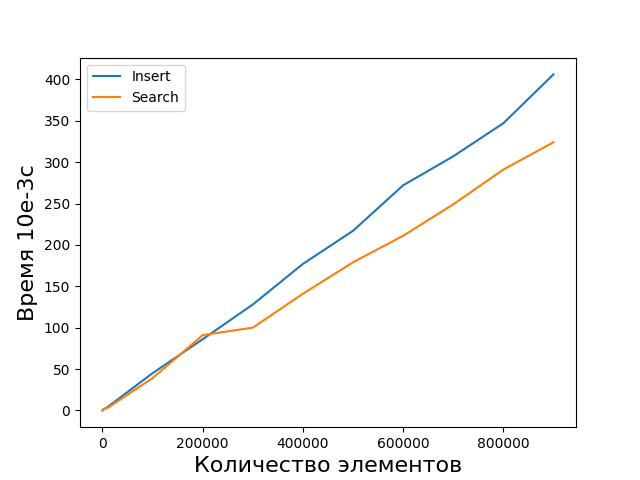
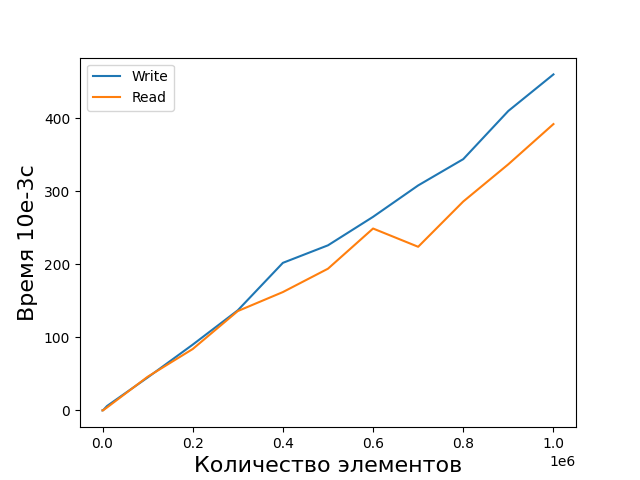
[SkipList] Benchmark chars + description

diff --git a/PrimaEst/Benchmarks/SkipList/SkipListSelection.c b/PrimaEst/Benchmarks/SkipList/SkipListSelection.c
@@ -25,7 +25,8 @@ static int nSelectionCount[] =
 	600000,
 	700000,
 	800000,
-	900000
+	900000,
+	1000000
 };
 
 static
@@ -368,7 +369,7 @@ LockFreeSkipListSelection()
 
 
 #define SKIP_LIST_BENCHMARK_THREAD_COUNT	63
-#define SKIP_LIST_BENCHMARK_BOUND			10e5
+#define SKIP_LIST_BENCHMARK_BOUND			2 * 10e5
 
 typedef struct _SBenchmarkSkipListArg
 {
@@ -385,10 +386,10 @@ typedef struct _SBenchmarkSkipListArg
 	DWORD				dwThreadsCount;
 
 	/** Начало диапозона */
-	DWORD				dwFrom;
+	LONG64				dwFrom;
 
 	/** Конец диапозона */
-	DWORD				dwTo;
+	LONG64				dwTo;
 } SBenchmarkSkipListArg, *PSBenchmarkSkipListArg;
 
 
@@ -417,7 +418,7 @@ SetLockFreeSkipListRoutine(
 	LONG lTime = 0;
 	LONG lTotal = 0;
 
-	for (DWORD i = arg->dwFrom; i < arg->dwTo; i++)
+	for (LONG64 i = arg->dwFrom; i < arg->dwTo; i++)
 	{
 		lTime = clock();
 
@@ -444,7 +445,7 @@ FindLockFreeSkipListRoutine(
 	LONG lTime = 0;
 	LONG lTotal = 0;
 
-	for (DWORD i = arg->dwFrom; i < arg->dwTo; i++)
+	for (LONG64 i = arg->dwFrom; i < arg->dwTo; i++)
 	{
 		lTime = clock();
 
@@ -471,7 +472,7 @@ FindSkipListRoutine(
 	LONG lTime = 0;
 	LONG lTotal = 0;
 
-	for (DWORD i = arg->dwFrom; i < arg->dwTo; i++)
+	for (LONG64 i = arg->dwFrom; i < arg->dwTo; i++)
 	{
 		lTime = clock();
 
@@ -500,7 +501,7 @@ SetSkipListRoutine(
 	LONG lTime = 0;
 	LONG lTotal = 0;
 
-	for (DWORD i = arg->dwFrom; i < arg->dwTo; i++)
+	for (LONG64 i = arg->dwFrom; i < arg->dwTo; i++)
 	{
 		lTime = clock();
 
@@ -537,21 +538,21 @@ InternalMultiThreadSetSelection()
 
 	InitializeCriticalSection(&crWriteLock);
 
-	for (DWORD i = 1; i <= SKIP_LIST_BENCHMARK_THREAD_COUNT; i++)
+	for (LONG64 i = 1; i <= SKIP_LIST_BENCHMARK_THREAD_COUNT; i++)
 	{
 		PSSkipList psSkipList = CreateSkipList(
 			TestIntComparator,
 			TestIntEraser,
 			TestIntChanger);
 
-		for (DWORD j = 0; j < i; j++)
+		for (LONG64 j = 0; j < i; j++)
 		{
 			sArgs[j].crWriteLock = &crWriteLock;
 			sArgs[j].dwThreadsCount = i;
 			sArgs[j].nTime = 0;
 			sArgs[j].psSkipList = psSkipList;
-			sArgs[j].dwFrom = (DWORD)(SKIP_LIST_BENCHMARK_BOUND / i) * j;
-			sArgs[j].dwTo = (DWORD)(SKIP_LIST_BENCHMARK_BOUND / i) * (j + 1);
+			sArgs[j].dwFrom = (LONG64)(SKIP_LIST_BENCHMARK_BOUND / i) * j;
+			sArgs[j].dwTo = (LONG64)(SKIP_LIST_BENCHMARK_BOUND / i) * (j + 1);
 
 			hThreads[j] = CreateThread(
 				NULL, 0, SetSkipListRoutine,
@@ -613,16 +614,16 @@ InternalMultiThreadFindSelection()
 
 	InitializeCriticalSection(&crWriteLock);
 
-	for (DWORD i = 1; i <= SKIP_LIST_BENCHMARK_THREAD_COUNT; i++)
+	for (LONG64 i = 1; i <= SKIP_LIST_BENCHMARK_THREAD_COUNT; i++)
 	{
-		for (DWORD j = 0; j < i; j++)
+		for (LONG64 j = 0; j < i; j++)
 		{
 			sArgs[j].crWriteLock = &crWriteLock;
 			sArgs[j].dwThreadsCount = i;
 			sArgs[j].nTime = 0;
 			sArgs[j].psSkipList = psSkipList;
-			sArgs[j].dwFrom = (DWORD)(SKIP_LIST_BENCHMARK_BOUND / i) * j;
-			sArgs[j].dwTo = (DWORD)(SKIP_LIST_BENCHMARK_BOUND / i) * (j + 1);
+			sArgs[j].dwFrom = (LONG64)(SKIP_LIST_BENCHMARK_BOUND / i) * j;
+			sArgs[j].dwTo = (LONG64)(SKIP_LIST_BENCHMARK_BOUND / i) * (j + 1);
 
 			hThreads[j] = CreateThread(
 				NULL, 0, FindSkipListRoutine,
@@ -679,21 +680,21 @@ InternalMultiThreadLockFreeSetSelection()
 
 	InitializeCriticalSection(&crWriteLock);
 
-	for (DWORD i = 1; i <= SKIP_LIST_BENCHMARK_THREAD_COUNT; i++)
+	for (LONG64 i = 1; i <= SKIP_LIST_BENCHMARK_THREAD_COUNT; i++)
 	{
 		PSLockFreeSkipList psSkipList = CreateLockFreeSkipList(
 			TestIntComparator,
 			TestIntEraser,
 			TestIntChanger);
 
-		for (DWORD j = 0; j < i; j++)
+		for (LONG64 j = 0; j < i; j++)
 		{
 			sArgs[j].crWriteLock = &crWriteLock;
 			sArgs[j].dwThreadsCount = i;
 			sArgs[j].nTime = 0;
 			sArgs[j].psSkipList = psSkipList;
-			sArgs[j].dwFrom = (DWORD)(SKIP_LIST_BENCHMARK_BOUND / i) * j;
-			sArgs[j].dwTo = (DWORD)(SKIP_LIST_BENCHMARK_BOUND / i) * (j + 1);
+			sArgs[j].dwFrom = (LONG64)(SKIP_LIST_BENCHMARK_BOUND / i) * j;
+			sArgs[j].dwTo = (LONG64)(SKIP_LIST_BENCHMARK_BOUND / i) * (j + 1);
 
 			hThreads[j] = CreateThread(
 				NULL, 0, SetLockFreeSkipListRoutine,
@@ -752,15 +753,15 @@ InternalMultiThreadLockFreeFindSelection()
 	HANDLE hThreads[SKIP_LIST_BENCHMARK_THREAD_COUNT];
 	SBenchmarkSkipListArg sArgs[SKIP_LIST_BENCHMARK_THREAD_COUNT];
 
-	for (DWORD i = 1; i <= SKIP_LIST_BENCHMARK_THREAD_COUNT; i++)
+	for (LONG64 i = 1; i <= SKIP_LIST_BENCHMARK_THREAD_COUNT; i++)
 	{
-		for (DWORD j = 0; j < i; j++)
+		for (LONG64 j = 0; j < i; j++)
 		{
 			sArgs[j].dwThreadsCount = i;
 			sArgs[j].nTime = 0;
 			sArgs[j].psSkipList = psSkipList;
-			sArgs[j].dwFrom = (DWORD)(SKIP_LIST_BENCHMARK_BOUND / i) * j;
-			sArgs[j].dwTo = (DWORD)(SKIP_LIST_BENCHMARK_BOUND / i) * (j + 1);
+			sArgs[j].dwFrom = (LONG64)(SKIP_LIST_BENCHMARK_BOUND / i) * j;
+			sArgs[j].dwTo = (LONG64)(SKIP_LIST_BENCHMARK_BOUND / i) * (j + 1);
 
 			hThreads[j] = CreateThread(
 				NULL, 0, FindLockFreeSkipListRoutine,

diff --git a/PrimaEst/Benchmarks/SkipList/LockFreeSkipListPlot.py b/PrimaEst/Benchmarks/SkipList/LockFreeSkipListPlot.py
@@ -22,7 +22,8 @@ selection = [
 	600000,
 	700000,
 	800000,
-	900000
+	900000,
+	1000000
 ]
 
 with open("LockFreeSkipListSelection.bin", mode='rb') as file:
@@ -43,8 +44,8 @@ findselection = dataset[len(dataset) // 2:]
 fig, ax = plt.subplots()
 plt.xlabel("Количество элементов", fontsize=16)
 plt.ylabel("Время 10e-3с", fontsize=16)
-ax.plot(selection, setselection, label="Insert")
-ax.plot(selection, findselection, label="Search")
+ax.plot(selection, setselection, label="Write")
+ax.plot(selection, findselection, label="Read")
 ax.legend()
 
 fig.savefig("./LockFreeSkipList")

diff --git a/PrimaEst/Benchmarks/SkipList/SkipListPlot.py b/PrimaEst/Benchmarks/SkipList/SkipListPlot.py
@@ -22,7 +22,8 @@ selection = [
 	600000,
 	700000,
 	800000,
-	900000
+	900000,
+	1000000
 ]
 
 with open("SkipListSelection.bin", mode='rb') as file:
@@ -43,8 +44,8 @@ findselection = dataset[len(dataset) // 2:]
 fig, ax = plt.subplots()
 plt.xlabel("Количество элементов", fontsize=16)
 plt.ylabel("Время 10e-3с", fontsize=16)
-ax.plot(selection, setselection, label="Insert")
-ax.plot(selection, findselection, label="Search")
+ax.plot(selection, setselection, label="Write")
+ax.plot(selection, findselection, label="Read")
 ax.legend()
 
 fig.savefig("./SkipList")

diff --git a/PrimaEst/Benchmarks/SkipList/SetMultiThread.py b/PrimaEst/Benchmarks/SkipList/SetMultiThread.py
@@ -27,11 +27,13 @@ selection = list(range(1, 64))
 findselection = dataset[:len(dataset) // 2]
 findlockfreeselection = dataset[len(dataset) // 2:]
 
+print
+
 fig, ax = plt.subplots()
 plt.xlabel("Количество потоков", fontsize=16)
 plt.ylabel("Время 10e-3с", fontsize=16)
-ax.plot(selection, findselection, label="Lock Set")
-ax.plot(selection, findlockfreeselection, label="Lock-Free Set")
+ax.plot(selection, findselection, label="Lock Write")
+ax.plot(selection, findlockfreeselection, label="Lock-Free Write")
 ax.legend()
 
 fig.savefig("./SetMultiThread")

diff --git a/PrimaEst/benchmarks.c b/PrimaEst/benchmarks.c
@@ -12,9 +12,9 @@
 int main()
 {
 	SkipListSelection();
-	LockFreeSkipListSelection();
+	/*LockFreeSkipListSelection();
 	MultiThreadFindSkipListSelection();
-	MultiThreadSetSkipListSelection();
+	MultiThreadSetSkipListSelection();*/
 }
 
 #endif

diff --git a/PrimaEst/Benchmarks/SkipList/Readme.md b/PrimaEst/Benchmarks/SkipList/Readme.md
@@ -1,8 +1,8 @@
 # Бенчмарк для списка с пропусками
 
 Представлены две реализации:
-1. Список с пропусками основанный на двусвязном интрузивном списке
-2. Список с пропусками основанный на односвязном списке с Lock-Free чтением
+1. Список с пропусками основанный на двусвязном списке
+2. Lock-Free cписок с пропусками
 
 Результаты
 ========================================
@@ -14,14 +14,14 @@
 
 #### Сравнение операций для реализации №2
 ![](./LockFreeSkipList.png "Операции над реализацией №2")  
-Операция поиска происходит быстрее вставки, что впринципе и логично, ведь поиск не производит аллокаций памяти.  
+Выполняется медленнее обычной реализации.
 
 #### Многопоточное сравнение чтения для двух реализаций
-Чтение производится для ![](https://latex.codecogs.com/png.latex?10^{6})  записей. Каждый поток читает часть из этих данных, чтобы в сумме все потоки прочитали ![](https://latex.codecogs.com/png.latex?10^{6})  записей.  
+Чтение производится для ![](https://latex.codecogs.com/png.latex?2*10^{6})  записей. Каждый поток читает часть из этих данных, чтобы в сумме все потоки прочитали ![](https://latex.codecogs.com/png.latex?2*10^{6})  записей.  
 ![](./FindMultiThread.png "Многопоточное сравнение чтения для двух реализаций")  
-Чтение во второй реализации происходит намного быстрее из-за отсутствия критических секций.
+Чтение во второй реализации не изменяется при росте числа потоков, а первая реализации растет.
 
 #### Многопоточное сравнение записи для двух реализаций
-Производится вставка для ![](https://latex.codecogs.com/png.latex?10^{6}) записей. Каждый поток пишет часть из этих данных, чтобы в сумме все потоки вставили ![](https://latex.codecogs.com/png.latex?10^{6}) записей.  
+Производится вставка для ![](https://latex.codecogs.com/png.latex?2*10^{6}) записей. Каждый поток пишет часть из этих данных, чтобы в сумме все потоки вставили ![](https://latex.codecogs.com/png.latex?2*10^{6}) записей.  
 ![](./SetMultiThread.png "Многопоточное сравнение чтения для двух реализаций")  
-Запись происходит примерно одинаково.
+Запись во второй реализации происходит быстрее, чем в первой.
